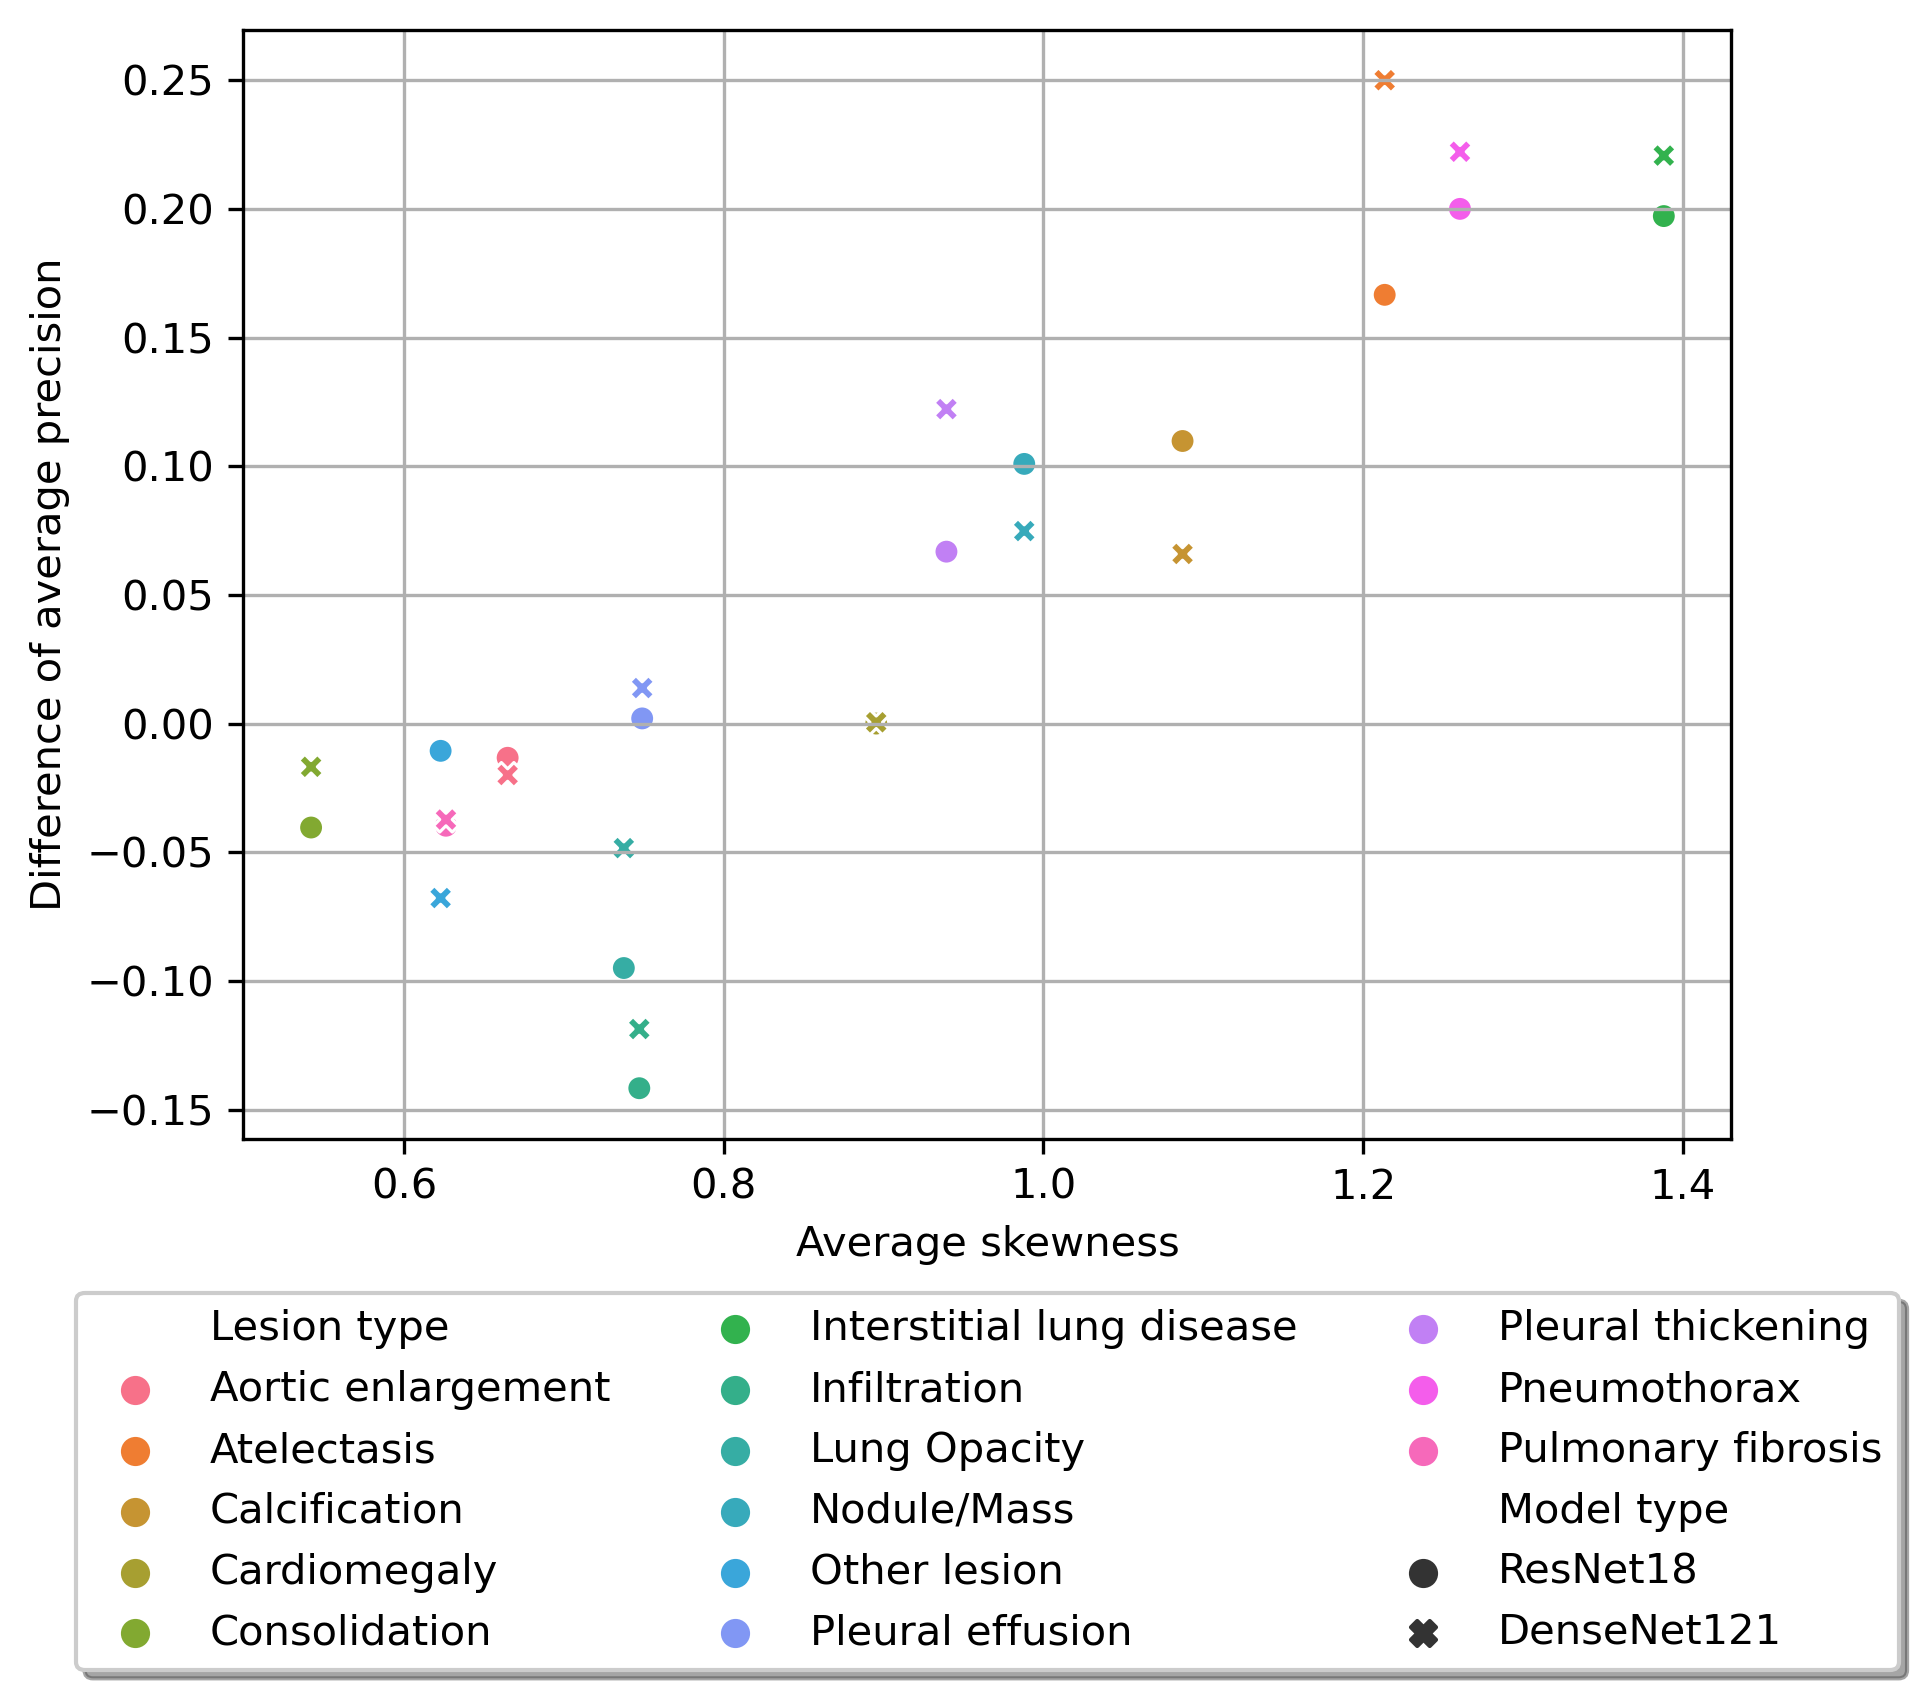
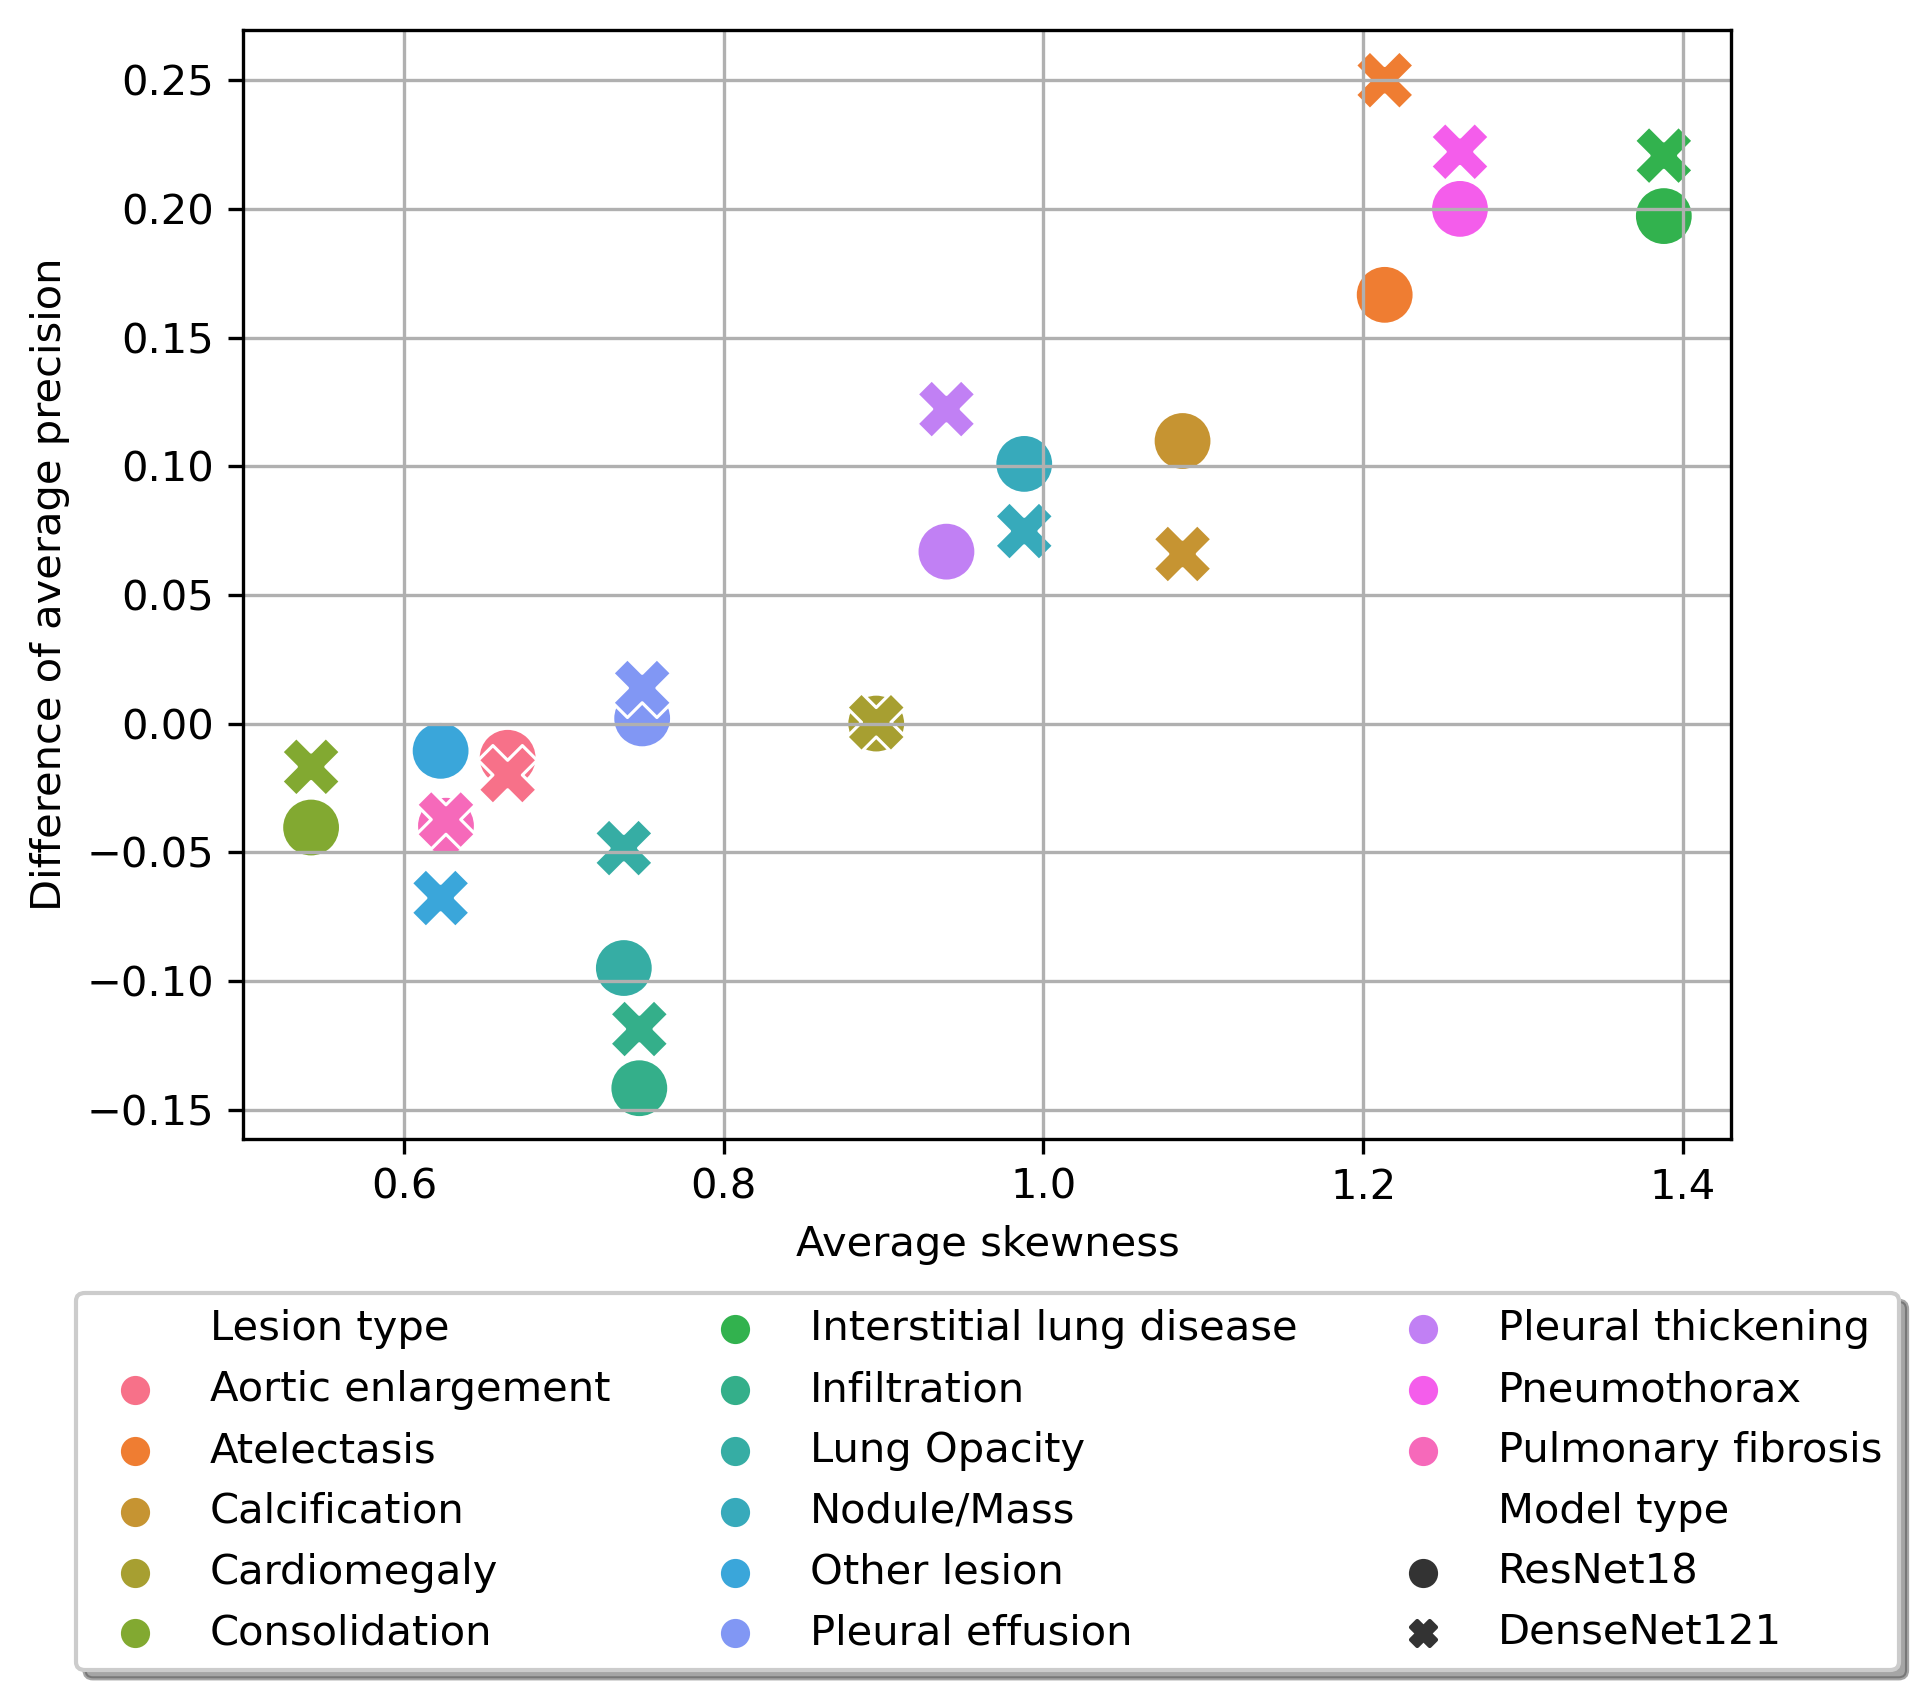
1105

diff --git a/dsts/plot_cxr_hist.py b/dsts/plot_cxr_hist.py
@@ -195,7 +195,7 @@ def vis_cxr_lesion_new():
     data = pd.concat([data_res, data_des],axis=0)
 
     fig, ax = plt.subplots(1) #figsize=(6,9)
-    ax = sns.scatterplot(data=data, x="Average skewness", y="Difference of average precision", hue="Lesion type", style='Model type', sizes=(20, 200))
+    ax = sns.scatterplot(data=data, x="Average skewness", y="Difference of average precision", hue="Lesion type", style='Model type', sizes=(20, 200), s=200)
     #ax = sns.relplot(x="Average skewness", y="Difference of average precision", hue="Lesion type", style='Model type', size="Lesion type",sizes=(20, 200), data=data) 
     ax.grid()
     #ax.legend(loc='center left', bbox_to_anchor=(1, 0.5))
